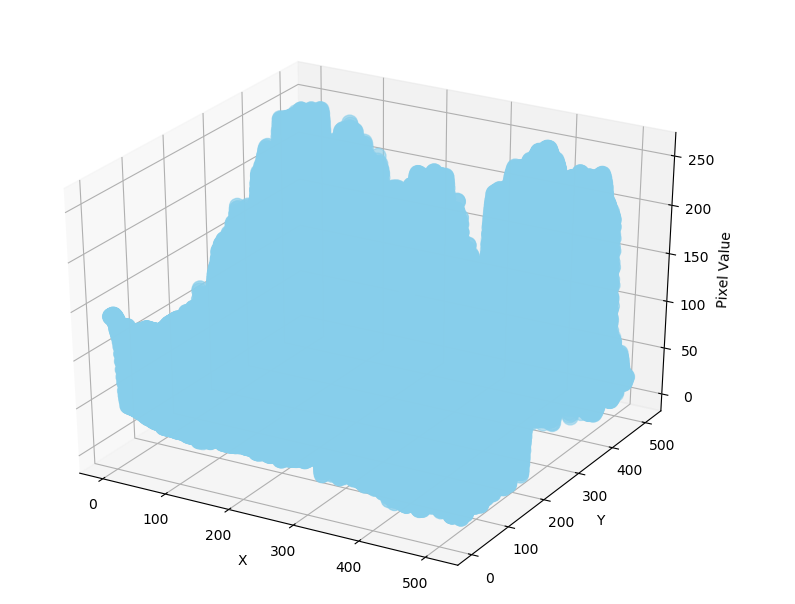
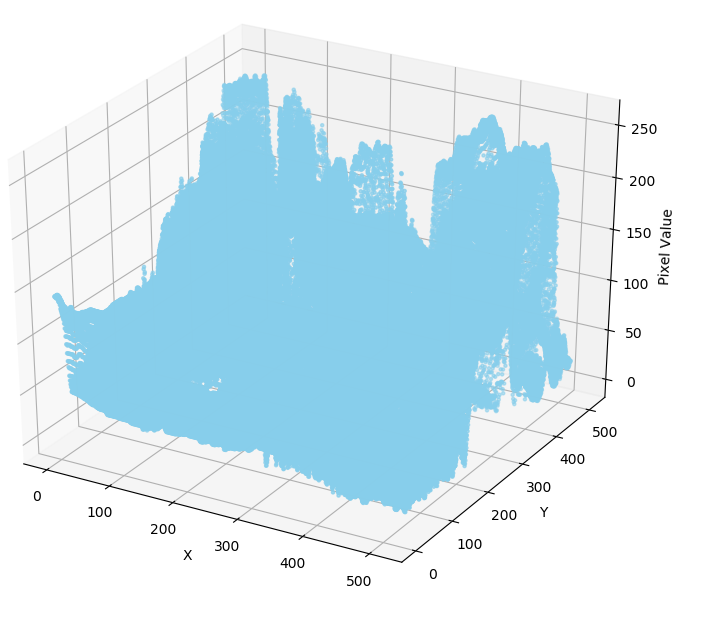
1Juli2018

diff --git a/Ma Test/20000/scatter3d2.py b/Ma Test/20000/scatter3d2.py
@@ -18,7 +18,7 @@ def main():
     fig = pyplot.figure(figsize=(10,8))
     axis = fig.add_subplot(111, projection="3d") # 3D plot with scalar values in each axis
 
-    im = Image.open("D:/fadhlan/f44b13efb3f210b4a0cc5c45e4e84d09/MyProgram/MyProgram/bin/Debug/Hasil/Jun. 12, 2018 0-26-46/1.2 EncryptedImage.png")
+    im = Image.open("D:/fadhlan/f44b13efb3f210b4a0cc5c45e4e84d09/MyProgram/MyProgram/bin/Debug/Hasil/Jun. 12, 2018 0-26-46/1. GrayscaleImage.png")
     #p,q=im.getdata(0).size
     
     '''for j in range(5):
@@ -62,7 +62,7 @@ def main():
     print(xv.size,yv.size,img.size)
     #x, y, b = list(xv, xv, list(im.getdata(0)))
     
-    axis.scatter(xv, yv, img, c="skyblue", marker="o",s=124)
+    axis.scatter(xv, yv, img, c="skyblue", marker="o",s=5)
     axis.set_xlabel("X")
     axis.set_ylabel("Y")
     axis.set_zlabel("Pixel Value")

diff --git a/Ma Test/20000/scatter3d1.py b/Ma Test/20000/scatter3d1.py
@@ -18,7 +18,7 @@ def main():
     fig = pyplot.figure(figsize=(10,8))
     axis = fig.add_subplot(111, projection="3d") # 3D plot with scalar values in each axis
 
-    im = Image.open("D:/fadhlan/f44b13efb3f210b4a0cc5c45e4e84d09/MyProgram/MyProgram/bin/Debug/Hasil/Jun. 12, 2018 0-26-46/1.1 StreamImage.png")
+    im = Image.open("D:/fadhlan/f44b13efb3f210b4a0cc5c45e4e84d09/MyProgram/MyProgram/bin/Debug/Hasil/Jun. 12, 2018 0-26-46/1. GrayscaleImage.png")
     #p,q=im.getdata(0).size
     
     '''for j in range(5):
